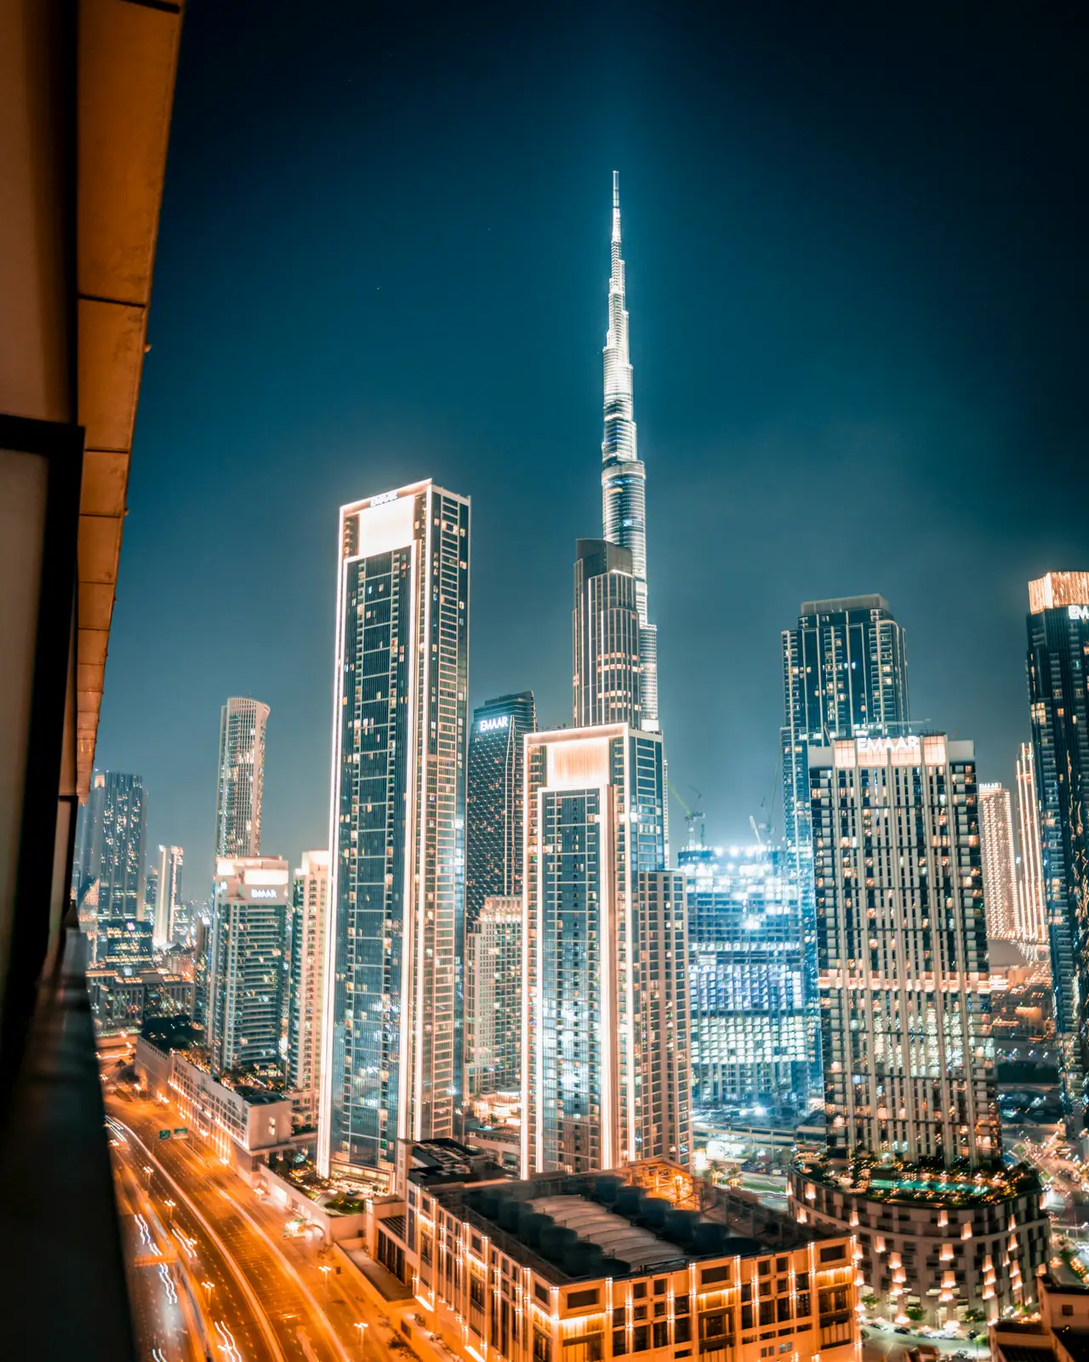
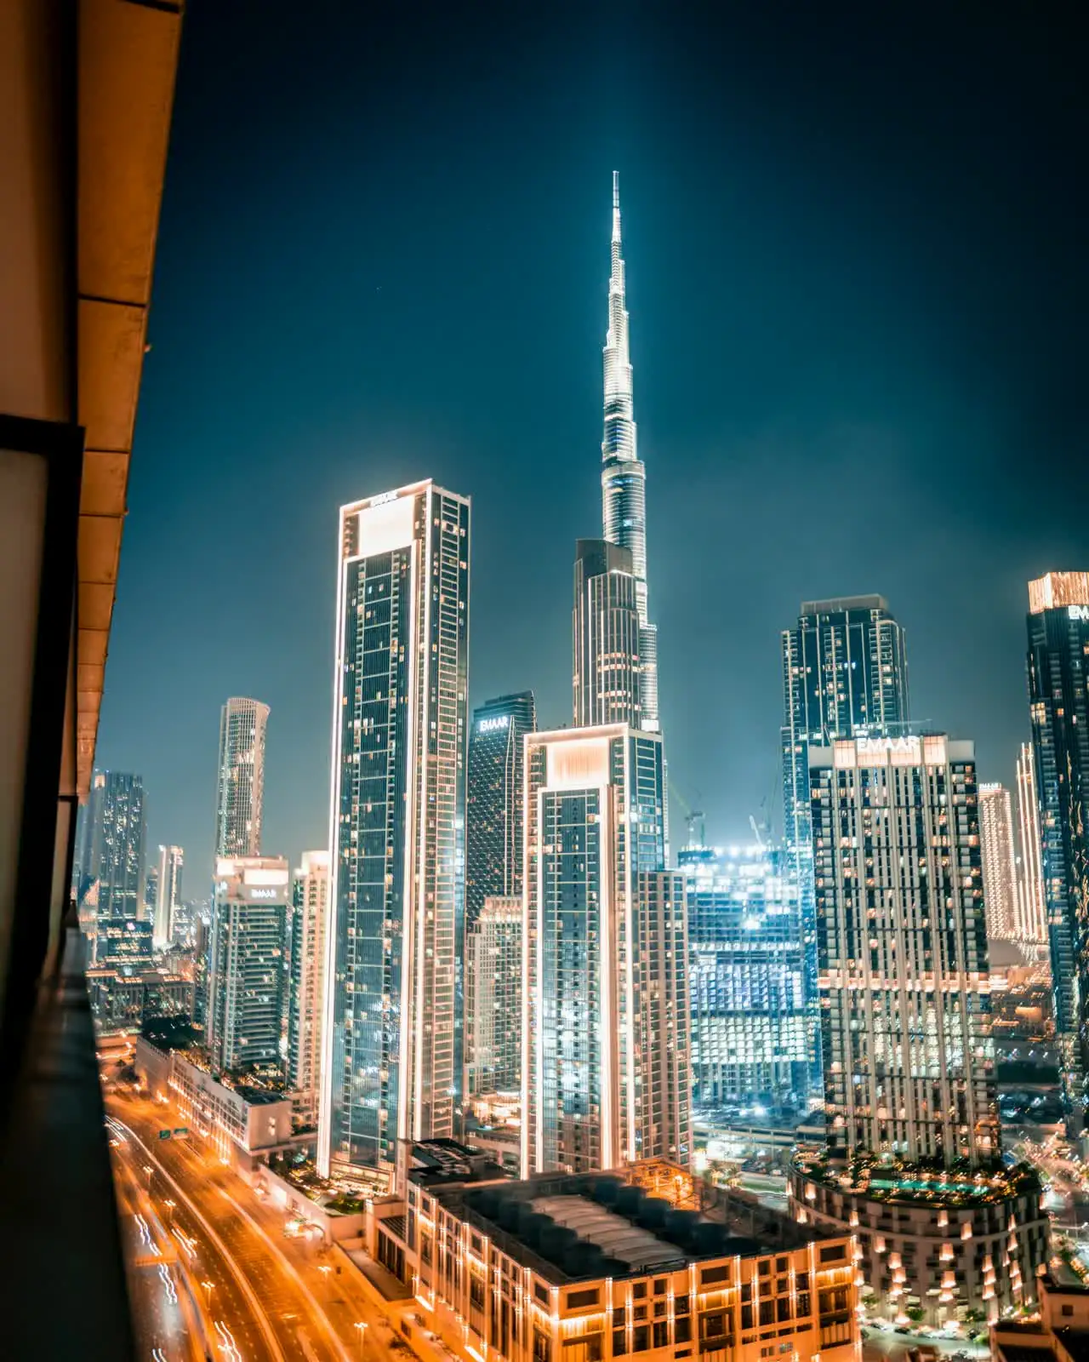
Carry forward pending SEO/meta tweaks from before this branch
Meta title/description tightening, an .htaccess www->apex redirect,
JSON-LD schema adjustments, and a couple of image swaps that were
already sitting uncommitted in the working tree before this branch's
CMS work started. Committing as-is, unmodified, so they aren't lost
or silently bundled into the CMS commits that follow.

diff --git a/site/blog/digital-marketing-agency-in-dubai.html b/site/blog/digital-marketing-agency-in-dubai.html
@@ -13,9 +13,9 @@
 
 <meta charset="UTF-8">
 <meta name="viewport" content="width=device-width, initial-scale=1.0">
-<title>Digital Marketing Agency in Dubai: What You're Actually Paying For — Advibe Agency</title>
+<title>Digital Marketing Agency Dubai: What You're Paying For</title>
 <meta name="description" content="Discover what you're actually paying for with a digital marketing agency in Dubai - Google Ads, Meta Ads, SEO, tracking, optimization, and real results.">
-<meta property="og:title" content="Digital Marketing Agency in Dubai: What You're Actually Paying For — Advibe Agency">
+<meta property="og:title" content="Digital Marketing Agency Dubai: What You're Paying For">
 <meta property="og:description" content="Discover what you're actually paying for with a digital marketing agency in Dubai - Google Ads, Meta Ads, SEO, tracking, optimization, and real results.">
 <meta property="og:type" content="article">
 <meta property="og:image" content="../images/og-image-base.png">
@@ -41,7 +41,9 @@
   "dateModified": "2026-09-01",
   "url": "https://advibeagency.me/blog/digital-marketing-agency-in-dubai.html",
   "mainEntityOfPage": "https://advibeagency.me/blog/digital-marketing-agency-in-dubai.html",
-  "author": { "@type": "Person", "name": "Abdul Rahim Edavazhikkal", "jobTitle": "Founder & Digital Growth Partner" },
+  "image": "https://advibeagency.me/images/og-image-base.png",
+  "inLanguage": "en",
+  "author": { "@type": "Person", "name": "Abdul Rahim Edavazhikkal", "jobTitle": "Founder & Digital Growth Partner", "url": "https://advibeagency.me/about.html" },
   "publisher": { "@id": "https://advibeagency.me/#organization" }
 }
 </script>
@@ -120,7 +122,7 @@
 
         <p>So here's the plain version.</p>
 
-        <p>Advibe is a Dubai-based digital marketing agency running Google Ads, Meta Ads, and SEO for local businesses — mainly clinics, dental practices, real estate companies, and consultancy and financial services.</p>
+        <p><a href="../index.html">Advibe</a> is a Dubai-based digital marketing agency running <a href="../google-ads.html">Google Ads</a>, <a href="../meta-ads.html">Meta Ads</a>, and <a href="../seo.html">SEO</a> for local businesses — mainly clinics, dental practices, real estate companies, and consultancy and financial services.</p>
 
         <p>No long-term contracts. No 40-slide decks. Just accounts run properly and reported on in numbers you can actually check.</p>
 
@@ -179,7 +181,7 @@
 
         <p>A healthcare clinic in Jumeirah came to us with a new website and no meaningful organic visibility.</p>
 
-        <p>Within roughly two months of SEO work, the site's SEO score moved from 46 to 49, it ranked for 95 keywords, and it was generating 1,094 monthly organic visitors.</p>
+        <p>Within roughly two months of <a href="../seo.html">SEO work</a>, the site's SEO score moved from 46 to 49, it ranked for 95 keywords, and it was generating 1,094 monthly organic visitors.</p>
 
         <p>The important part isn't just the numbers.</p>
 
@@ -253,7 +255,7 @@
 
         <p>Yes.</p>
 
-        <p>Advibe offers a free Google Ads and Meta Ads audit for a limited number of businesses each month, mainly clinics and local businesses in Dubai.</p>
+        <p>Advibe offers a <a href="../free-ads-audit.html">free Google Ads and Meta Ads audit</a> for a limited number of businesses each month, mainly clinics and local businesses in Dubai.</p>
 
         <p>The audit is intended to show what's working, what's not, and where there may be opportunities to improve.</p>
 
@@ -269,7 +271,7 @@
 
         <h2>Next step</h2>
 
-        <p>If you want a straight read on your current Google Ads or Meta Ads account — no pitch, just what's working and what isn't — ask about the free audit.</p>
+        <p>If you want a straight read on your current Google Ads or Meta Ads account — no pitch, just what's working and what isn't — ask about the <a href="../free-ads-audit.html">free audit</a>.</p>
 
         <p>Slots are limited and the offer runs until the end of the month.</p>
       </article>

diff --git a/site/index.html b/site/index.html
@@ -13,9 +13,9 @@
 
 <meta charset="UTF-8">
 <meta name="viewport" content="width=device-width, initial-scale=1.0">
-<title>Advibe Agency — Google Ads &amp; Meta Ads Agency in Dubai</title>
-<meta name="description" content="Advibe Agency is the performance marketing agency Dubai businesses call when their ad budget isn't working. Google Ads, Meta Ads, and PPC that drives measurable growth.">
-<meta property="og:title" content="Advibe Agency — Google Ads &amp; Meta Ads Agency in Dubai">
+<title>Digital Marketing Agency in Dubai | Advibe Agency</title>
+<meta name="description" content="Digital marketing agency in Dubai — 95 keywords ranked, 1,094 monthly visitors in 2 months for one client. Founder-run, no account handlers.">
+<meta property="og:title" content="Digital Marketing Agency in Dubai | Advibe Agency">
 <meta property="og:description" content="Performance marketing and PPC that drives real, measurable growth for Dubai & UAE businesses.">
 <meta property="og:type" content="website">
 <meta property="og:image" content="images/og-image-base.png">
@@ -39,7 +39,7 @@
   "name": "Advibe Agency FZ-LLC",
   "url": "https://advibeagency.me/",
   "logo": "https://advibeagency.me/images/advibe-logo.png",
-  "image": "https://advibeagency.me/images/advibe-logo.png",
+  "image": "https://advibeagency.me/images/hero-dubai.jpg",
   "sameAs": [
     "https://www.facebook.com/advibeagencyuae",
     "https://www.instagram.com/advibeagencyuae/",
@@ -48,10 +48,12 @@
   ],
   "description": "Advibe Agency is a founder-led performance marketing agency based in Ras Al Khaimah, serving Dubai, Abu Dhabi, and the UAE. Data-driven Google Ads, Meta Ads, and PPC — no account-manager layer.",
   "telephone": "+971501390421",
+  "email": "connect@advibeagency.me",
   "address": {
     "@type": "PostalAddress",
     "streetAddress": "VUET1006 Compass Building",
     "addressLocality": "Ras Al Khaimah",
+    "addressRegion": "Ras Al Khaimah",
     "addressCountry": "AE"
   },
   "areaServed": [

diff --git a/site/branding-identity.html b/site/branding-identity.html
@@ -13,9 +13,9 @@
 
 <meta charset="UTF-8">
 <meta name="viewport" content="width=device-width, initial-scale=1.0">
-<title>Top Branding Agency in Dubai — Brand Identity Design | Advibe Agency</title>
-<meta name="description" content="Advibe is one of the top branding agencies in Dubai — logo and visual identity design, brand guidelines, and collateral built to make your business look credible and convert, not just look nice.">
-<meta property="og:title" content="Top Branding Agency in Dubai — Brand Identity Design | Advibe Agency">
+<title>Top Branding Agency Dubai | Advibe Agency</title>
+<meta name="description" content="Advibe is a branding agency in Dubai — logo and visual identity design, brand guidelines, and collateral built to convert, not decorate.">
+<meta property="og:title" content="Top Branding Agency Dubai | Advibe Agency">
 <meta property="og:description" content="A brand identity built to make you look credible to the people deciding whether to trust you — logo, guidelines and collateral that convert, not just decorate.">
 <meta property="og:type" content="website">
 <meta property="og:image" content="images/services/branding.jpg">
@@ -38,12 +38,9 @@
   "serviceType": "Branding & Identity",
   "name": "Branding & Identity",
   "provider": {
-    "@type": "Organization",
-    "@id": "https://advibeagency.me/#organization",
-    "name": "Advibe Agency FZ-LLC",
-    "url": "https://advibeagency.me/"
+    "@id": "https://advibeagency.me/#organization"
   },
-  "areaServed": "United Arab Emirates",
+  "areaServed": ["Dubai", "Abu Dhabi", "Ras Al Khaimah", "United Arab Emirates"],
   "description": "A brand identity built to make you look credible to the people deciding whether to trust you — logo, guidelines and collateral that convert, not just decorate.",
   "url": "https://advibeagency.me/branding-identity.html"
 }

diff --git a/site/landing-page-cro.html b/site/landing-page-cro.html
@@ -13,9 +13,9 @@
 
 <meta charset="UTF-8">
 <meta name="viewport" content="width=device-width, initial-scale=1.0">
-<title>Landing Page Development Agency — Landing Pages &amp; CRO | Advibe Agency</title>
-<meta name="description" content="Advibe is a landing page development agency building pages matched to your ad campaigns — conversion-focused copy, A/B testing, and CRO built to turn ad clicks into leads, not just traffic.">
-<meta property="og:title" content="Landing Page Development Agency — Landing Pages &amp; CRO | Advibe Agency">
+<title>Landing Page &amp; CRO Agency Dubai | Advibe Agency</title>
+<meta name="description" content="Advibe builds landing pages matched to your ad campaigns — conversion-focused copy and CRO built to turn ad clicks into leads.">
+<meta property="og:title" content="Landing Page &amp; CRO Agency Dubai | Advibe Agency">
 <meta property="og:description" content="Landing pages built specifically to convert the traffic your ads are already sending — not a generic template with your logo on it.">
 <meta property="og:type" content="website">
 <meta property="og:image" content="images/services/landing-page.jpg">
@@ -39,12 +39,9 @@
   "serviceType": "Landing Page Design & CRO",
   "name": "Landing Page Design & CRO",
   "provider": {
-    "@type": "Organization",
-    "@id": "https://advibeagency.me/#organization",
-    "name": "Advibe Agency FZ-LLC",
-    "url": "https://advibeagency.me/"
+    "@id": "https://advibeagency.me/#organization"
   },
-  "areaServed": "United Arab Emirates",
+  "areaServed": ["Dubai", "Abu Dhabi", "Ras Al Khaimah", "United Arab Emirates"],
   "description": "Landing pages built specifically to convert the traffic your ads are already sending — not a generic template with your logo on it.",
   "url": "https://advibeagency.me/landing-page-cro.html"
 }

diff --git a/site/google-ads.html b/site/google-ads.html
@@ -13,9 +13,9 @@
 
 <meta charset="UTF-8">
 <meta name="viewport" content="width=device-width, initial-scale=1.0">
-<title>Google Ads Agency Dubai — Search, Shopping &amp; PMax | Advibe Agency</title>
-<meta name="description" content="Advibe is a Google Ads agency in Dubai running Search, Shopping, Display and Performance Max campaigns for UAE businesses — clean tracking, honest reporting, direct founder access.">
-<meta property="og:title" content="Google Ads Agency Dubai — Search, Shopping &amp; PMax | Advibe Agency">
+<title>Google Ads Agency Dubai | Advibe Agency</title>
+<meta name="description" content="Advibe runs Google Ads — Search, Shopping, Display and Performance Max — for Dubai businesses, with clean tracking and honest reporting.">
+<meta property="og:title" content="Google Ads Agency Dubai | Advibe Agency">
 <meta property="og:description" content="Search, Shopping, Display and Performance Max campaigns for Dubai and UAE businesses — built on clean tracking and honest reporting.">
 <meta property="og:type" content="website">
 <meta property="og:image" content="images/services/google-ads.jpg">
@@ -39,12 +39,9 @@
   "serviceType": "Google Ads",
   "name": "Google Ads",
   "provider": {
-    "@type": "Organization",
-    "@id": "https://advibeagency.me/#organization",
-    "name": "Advibe Agency FZ-LLC",
-    "url": "https://advibeagency.me/"
+    "@id": "https://advibeagency.me/#organization"
   },
-  "areaServed": "United Arab Emirates",
+  "areaServed": ["Dubai", "Abu Dhabi", "Ras Al Khaimah", "United Arab Emirates"],
   "description": "Search, Shopping, Display and Performance Max campaigns for Dubai and UAE businesses — built on clean GA4 tracking, honest reporting, and direct access to the person actually running your account.",
   "url": "https://advibeagency.me/google-ads.html"
 }

diff --git a/site/linkedin-ads.html b/site/linkedin-ads.html
@@ -13,9 +13,9 @@
 
 <meta charset="UTF-8">
 <meta name="viewport" content="width=device-width, initial-scale=1.0">
-<title>LinkedIn Advertising Management — B2B Lead Gen | Advibe Agency</title>
-<meta name="description" content="Advibe's LinkedIn advertising management runs Sponsored Content, InMail and lead gen campaigns for B2B brands selling to decision-makers across the UAE and GCC — honest reporting on lead quality, not just clicks.">
-<meta property="og:title" content="LinkedIn Advertising Management — B2B Lead Gen | Advibe Agency">
+<title>LinkedIn Ads Management Dubai | Advibe Agency</title>
+<meta name="description" content="Advibe's LinkedIn ads management runs Sponsored Content and lead gen campaigns for B2B brands selling to decision-makers across the UAE.">
+<meta property="og:title" content="LinkedIn Ads Management Dubai | Advibe Agency">
 <meta property="og:description" content="Sponsored Content, InMail and lead gen campaigns built to reach real decision-makers and B2B buyers across the UAE and GCC.">
 <meta property="og:type" content="website">
 <meta property="og:image" content="images/services/linkedin-ads.jpg">
@@ -38,12 +38,9 @@
   "serviceType": "LinkedIn Ads",
   "name": "LinkedIn Ads",
   "provider": {
-    "@type": "Organization",
-    "@id": "https://advibeagency.me/#organization",
-    "name": "Advibe Agency FZ-LLC",
-    "url": "https://advibeagency.me/"
+    "@id": "https://advibeagency.me/#organization"
   },
-  "areaServed": "United Arab Emirates",
+  "areaServed": ["Dubai", "Abu Dhabi", "Ras Al Khaimah", "United Arab Emirates"],
   "description": "Sponsored Content, InMail and lead gen campaigns built to reach real decision-makers and B2B buyers across the UAE and GCC — not just impressions that look good in a report.",
   "url": "https://advibeagency.me/linkedin-ads.html"
 }

diff --git a/site/meta-ads.html b/site/meta-ads.html
@@ -13,9 +13,9 @@
 
 <meta charset="UTF-8">
 <meta name="viewport" content="width=device-width, initial-scale=1.0">
-<title>Meta Ad Agency Dubai — Facebook &amp; Instagram Ads | Advibe Agency</title>
-<meta name="description" content="Advibe is a Meta ad agency in Dubai running Facebook and Instagram campaigns for UAE businesses — scroll-stopping creative, real audience testing, and honest reporting on what actually converts.">
-<meta property="og:title" content="Meta Ad Agency Dubai — Facebook &amp; Instagram Ads | Advibe Agency">
+<title>Meta Ads Agency Dubai | Advibe Agency</title>
+<meta name="description" content="Advibe runs Facebook and Instagram ad campaigns for Dubai businesses — scroll-stopping creative and honest reporting on what converts.">
+<meta property="og:title" content="Meta Ads Agency Dubai | Advibe Agency">
 <meta property="og:description" content="Facebook and Instagram campaigns for Dubai and UAE businesses — creative built to stop the scroll, audiences built to convert.">
 <meta property="og:type" content="website">
 <meta property="og:image" content="images/services/meta-ads.jpg">
@@ -39,12 +39,9 @@
   "serviceType": "Meta Ads",
   "name": "Meta Ads",
   "provider": {
-    "@type": "Organization",
-    "@id": "https://advibeagency.me/#organization",
-    "name": "Advibe Agency FZ-LLC",
-    "url": "https://advibeagency.me/"
+    "@id": "https://advibeagency.me/#organization"
   },
-  "areaServed": "United Arab Emirates",
+  "areaServed": ["Dubai", "Abu Dhabi", "Ras Al Khaimah", "United Arab Emirates"],
   "description": "Facebook and Instagram campaigns for Dubai and UAE businesses — creative built to stop the scroll, audiences built to convert, and a Pixel set up correctly so every sale actually gets counted.",
   "url": "https://advibeagency.me/meta-ads.html"
 }

diff --git a/site/tiktok-ads.html b/site/tiktok-ads.html
@@ -13,9 +13,9 @@
 
 <meta charset="UTF-8">
 <meta name="viewport" content="width=device-width, initial-scale=1.0">
-<title>TikTok Marketing Agency Dubai — TikTok Ads Management | Advibe Agency</title>
-<meta name="description" content="Advibe is one of the TikTok marketing agencies Dubai brands work with for native-feeling video ad campaigns — audience targeting, creative direction, and honest reporting on what actually performs.">
-<meta property="og:title" content="TikTok Marketing Agency Dubai — TikTok Ads Management | Advibe Agency">
+<title>TikTok Ads Management Dubai | Advibe Agency</title>
+<meta name="description" content="Advibe manages TikTok ad campaigns for Dubai businesses — native-feeling video creative, audience targeting, and honest reporting.">
+<meta property="og:title" content="TikTok Ads Management Dubai | Advibe Agency">
 <meta property="og:description" content="Native-feeling short-form video campaigns built for TikTok's younger, high-engagement UAE audience.">
 <meta property="og:type" content="website">
 <meta property="og:image" content="images/services/tiktok-ads.jpg">
@@ -38,12 +38,9 @@
   "serviceType": "TikTok Ads",
   "name": "TikTok Ads",
   "provider": {
-    "@type": "Organization",
-    "@id": "https://advibeagency.me/#organization",
-    "name": "Advibe Agency FZ-LLC",
-    "url": "https://advibeagency.me/"
+    "@id": "https://advibeagency.me/#organization"
   },
-  "areaServed": "United Arab Emirates",
+  "areaServed": ["Dubai", "Abu Dhabi", "Ras Al Khaimah", "United Arab Emirates"],
   "description": "Native-feeling short-form video campaigns built for TikTok's younger, high-engagement UAE audience — audience targeting, scroll-stopping creative, and a Pixel that's actually tracking what converts.",
   "url": "https://advibeagency.me/tiktok-ads.html"
 }

diff --git a/site/analytics-tracking-setup.html b/site/analytics-tracking-setup.html
@@ -13,9 +13,9 @@
 
 <meta charset="UTF-8">
 <meta name="viewport" content="width=device-width, initial-scale=1.0">
-<title>Conversion Tracking Setup Dubai — GA4 &amp; Tag Manager | Advibe Agency</title>
-<meta name="description" content="Advibe's conversion tracking setup in Dubai gets GA4, Google Tag Manager and Meta Pixel configured and verified — so you know exactly which campaigns actually drive revenue, not just clicks.">
-<meta property="og:title" content="Conversion Tracking Setup Dubai — GA4 &amp; Tag Manager | Advibe Agency">
+<title>Conversion Tracking Setup Dubai | Advibe Agency</title>
+<meta name="description" content="Advibe sets up GA4, Google Tag Manager and Meta Pixel for Dubai businesses — verified tracking so you know what's driving revenue.">
+<meta property="og:title" content="Conversion Tracking Setup Dubai | Advibe Agency">
 <meta property="og:description" content="Know exactly which campaigns, keywords and ads are actually driving revenue — not just which ones are racking up clicks.">
 <meta property="og:type" content="website">
 <meta property="og:image" content="images/services/analytics.jpg">
@@ -39,12 +39,9 @@
   "serviceType": "Analytics & Tracking Setup",
   "name": "Analytics & Tracking Setup",
   "provider": {
-    "@type": "Organization",
-    "@id": "https://advibeagency.me/#organization",
-    "name": "Advibe Agency FZ-LLC",
-    "url": "https://advibeagency.me/"
+    "@id": "https://advibeagency.me/#organization"
   },
-  "areaServed": "United Arab Emirates",
+  "areaServed": ["Dubai", "Abu Dhabi", "Ras Al Khaimah", "United Arab Emirates"],
   "description": "Know exactly which campaigns, keywords and ads are actually driving revenue — not just which ones are racking up clicks.",
   "url": "https://advibeagency.me/analytics-tracking-setup.html"
 }

diff --git a/site/web-design-development.html b/site/web-design-development.html
@@ -13,9 +13,9 @@
 
 <meta charset="UTF-8">
 <meta name="viewport" content="width=device-width, initial-scale=1.0">
-<title>Website Development Service Dubai — Web Design | Advibe Agency</title>
-<meta name="description" content="Advibe's website development service in Dubai builds fast, conversion-focused websites for UAE businesses — UX/UI design, clean development, and on-page SEO foundations built in from day one.">
-<meta property="og:title" content="Website Development Service Dubai — Web Design | Advibe Agency">
+<title>Web Design &amp; Development Dubai | Advibe Agency</title>
+<meta name="description" content="Advibe builds fast, conversion-focused websites for Dubai businesses — UX/UI design and on-page SEO foundations built in from day one.">
+<meta property="og:title" content="Web Design &amp; Development Dubai | Advibe Agency">
 <meta property="og:description" content="Fast, conversion-focused websites built to actually generate leads — not just look good in a portfolio.">
 <meta property="og:type" content="website">
 <meta property="og:image" content="images/services/web-design.jpg">
@@ -38,12 +38,9 @@
   "serviceType": "Web Design & Development",
   "name": "Web Design & Development",
   "provider": {
-    "@type": "Organization",
-    "@id": "https://advibeagency.me/#organization",
-    "name": "Advibe Agency FZ-LLC",
-    "url": "https://advibeagency.me/"
+    "@id": "https://advibeagency.me/#organization"
   },
-  "areaServed": "United Arab Emirates",
+  "areaServed": ["Dubai", "Abu Dhabi", "Ras Al Khaimah", "United Arab Emirates"],
   "description": "Fast, conversion-focused websites built to actually generate leads — not just look good in a portfolio.",
   "url": "https://advibeagency.me/web-design-development.html"
 }

diff --git a/site/seo.html b/site/seo.html
@@ -13,9 +13,9 @@
 
 <meta charset="UTF-8">
 <meta name="viewport" content="width=device-width, initial-scale=1.0">
-<title>Search Engine Optimization Company — SEO Services | Advibe Agency</title>
-<meta name="description" content="Advibe is a search engine optimization company helping UAE businesses grow organic traffic that compounds — technical SEO, content, and local optimization built to reduce long-term reliance on paid ads.">
-<meta property="og:title" content="Search Engine Optimization Company — SEO Services | Advibe Agency">
+<title>SEO Agency Dubai | Advibe Agency</title>
+<meta name="description" content="Advibe is an SEO agency helping UAE businesses grow organic traffic that compounds — technical SEO, content, and local optimization.">
+<meta property="og:title" content="SEO Agency Dubai | Advibe Agency">
 <meta property="og:description" content="Technical fixes, content, and authority building that compound over time — so more of your traffic arrives free.">
 <meta property="og:type" content="website">
 <meta property="og:image" content="images/services/seo.jpg">
@@ -39,12 +39,9 @@
   "serviceType": "SEO",
   "name": "SEO",
   "provider": {
-    "@type": "Organization",
-    "@id": "https://advibeagency.me/#organization",
-    "name": "Advibe Agency FZ-LLC",
-    "url": "https://advibeagency.me/"
+    "@id": "https://advibeagency.me/#organization"
   },
-  "areaServed": "United Arab Emirates",
+  "areaServed": ["Dubai", "Abu Dhabi", "Ras Al Khaimah", "United Arab Emirates"],
   "description": "Technical fixes, content, and authority building that compound over time — so more of your traffic arrives free, and your paid budget stretches further.",
   "url": "https://advibeagency.me/seo.html"
 }

diff --git a/site/social-media-management.html b/site/social-media-management.html
@@ -14,7 +14,7 @@
 <meta charset="UTF-8">
 <meta name="viewport" content="width=device-width, initial-scale=1.0">
 <title>Social Media Management Agency Dubai | Advibe Agency</title>
-<meta name="description" content="Advibe is a social media management agency in Dubai keeping UAE businesses consistent and on-brand across Instagram, TikTok, LinkedIn and Facebook — content, community management, and honest monthly reporting.">
+<meta name="description" content="Advibe is a social media management agency in Dubai keeping UAE businesses consistent across Instagram, TikTok, LinkedIn and Facebook.">
 <meta property="og:title" content="Social Media Management Agency Dubai | Advibe Agency">
 <meta property="og:description" content="Content calendars, on-brand design, and community management across Instagram, TikTok, LinkedIn and Facebook — so your feed stays consistent without you having to think about it.">
 <meta property="og:type" content="website">
@@ -38,12 +38,9 @@
   "serviceType": "Social Media Management",
   "name": "Social Media Management",
   "provider": {
-    "@type": "Organization",
-    "@id": "https://advibeagency.me/#organization",
-    "name": "Advibe Agency FZ-LLC",
-    "url": "https://advibeagency.me/"
+    "@id": "https://advibeagency.me/#organization"
   },
-  "areaServed": "United Arab Emirates",
+  "areaServed": ["Dubai", "Abu Dhabi", "Ras Al Khaimah", "United Arab Emirates"],
   "description": "Content calendars, on-brand design, and community management across Instagram, TikTok, LinkedIn and Facebook — so your feed stays consistent without you having to think about it.",
   "url": "https://advibeagency.me/social-media-management.html"
 }
